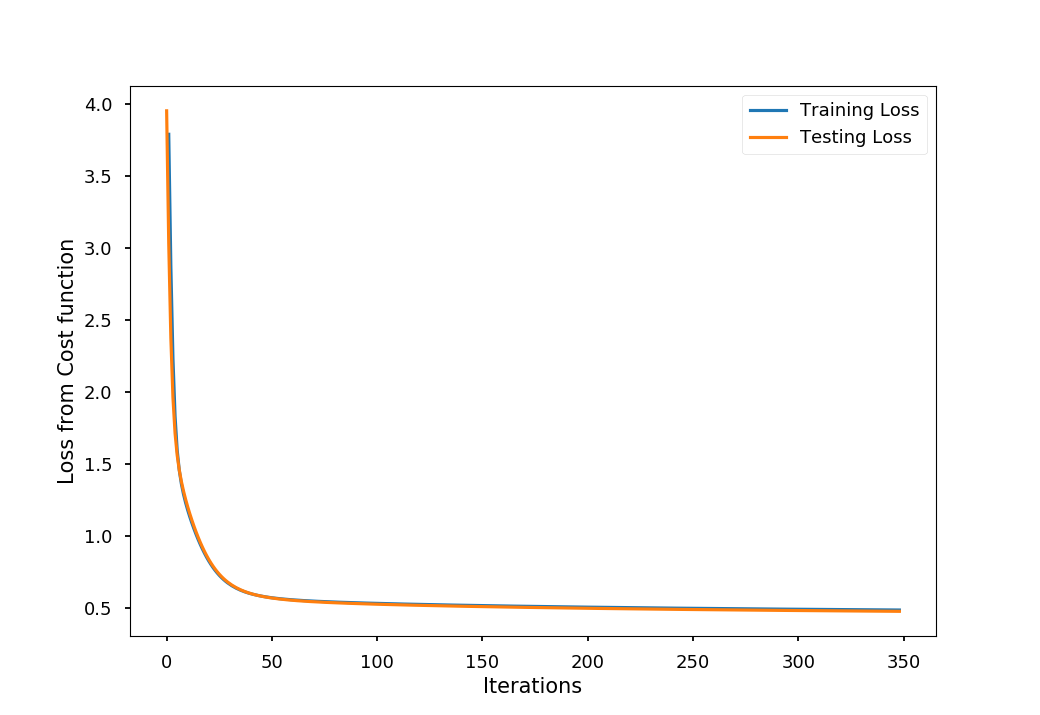
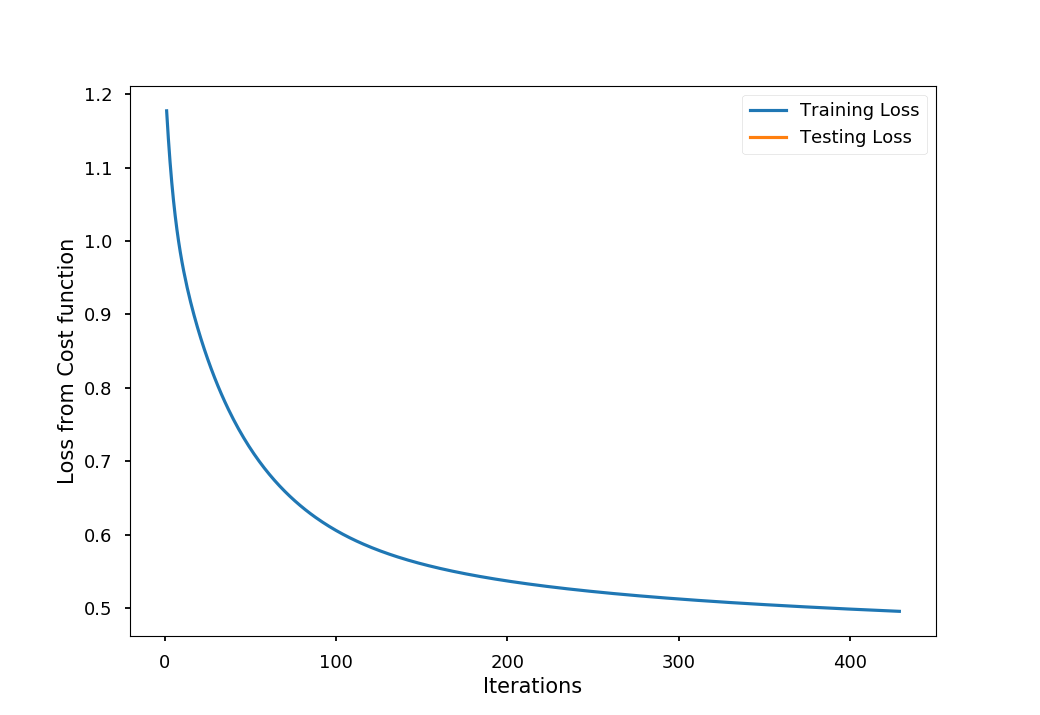
Minor changes to neural network

diff --git a/NeuralNet_package/neuralnet.py b/NeuralNet_package/neuralnet.py
@@ -73,7 +73,7 @@ class NeuralNetClassifier:
         eta = self.learning_rate
         lmbd = self.L2_penalty
         counter = 0
-        self.feed_forward(X_train)
+        a_h, self.probabilities = self.feed_forward(X_train)
         self.probabilities = np.zeros(len(y_train))
 
         for i in range(self.max_iter):
@@ -127,9 +127,9 @@ class NeuralNetClassifier:
             # self.probabilities = exp_term / np.sum(exp_term, axis=1, keepdims=True)
 
         ## Sigmoid activation
-        self.probabilities = self.sigmoid(z_o)
+        probabilities = self.sigmoid(z_o)
 
-        return a_h, self.probabilities
+        return a_h, probabilities
 
     def predict(self, X):
         """
@@ -146,7 +146,7 @@ class NeuralNetClassifier:
         ## Sigmoid activation
         probabilities = self.sigmoid(z_o)
 
-        return probabilities
+        return probabilities>0.5
 
     def backpropagation(self, X, y):
         """
@@ -167,6 +167,18 @@ class NeuralNetClassifier:
         # gradient for the hidden layer
         hidden_weights_gradient = np.matmul(X.T, error_hidden)
         hidden_bias_gradient = np.sum(error_hidden, axis=0)
+
+        
+        # a_h, self.probabilities = self.feed_forward(X)
+        # a_o = self.probabilities
+        # dLoss_a_o = y/a_o - (1-y)/(1-a_o)
+
+        # dLoss_z_o = dLoss_a_o * a_o * (1 - a_o)
+        
+        # dLoss_a_h = self.output_weights.T @ dLoss_z_o
+        # dLoss_w_o = 
+
+
 
         return output_weights_gradient, output_bias_gradient, hidden_weights_gradient, hidden_bias_gradient
 

diff --git a/main_neuralnet.py b/main_neuralnet.py
@@ -20,7 +20,7 @@ nn_clf = NeuralNetClassifier(
 
 
 X, y = nn_clf.read_credit_card_file(xls_file)
-X_train, X_test, y_train, y_test = nn_clf.train_test_split(X, y, test_size=0.1, random_state=4)
+X_train, X_test, y_train, y_test = nn_clf.train_test_split(X, y, test_size=0.3, random_state=4)
 nn_clf.initialize_weights(X_train, y_train)
 train_loss, test_loss, train_score, test_score = nn_clf.fit(X_train, y_train, X_test, y_test)
 
@@ -45,8 +45,8 @@ plt.show()
 
 
 train_probs = nn_clf.predict(X_train)
-train_score = nn_clf.accuracy(y_train, train_probs>0.5)
+train_score = nn_clf.accuracy(y_train, train_probs)
 test_probs = nn_clf.predict(X_test)
-test_score = nn_clf.accuracy(y_test, test_probs>0.5)
+test_score = nn_clf.accuracy(y_test, test_probs)
 print(f"Accuracy Score for training set: {train_score}")
 print(f"Accuracy Score for testing set:  {test_score}")
